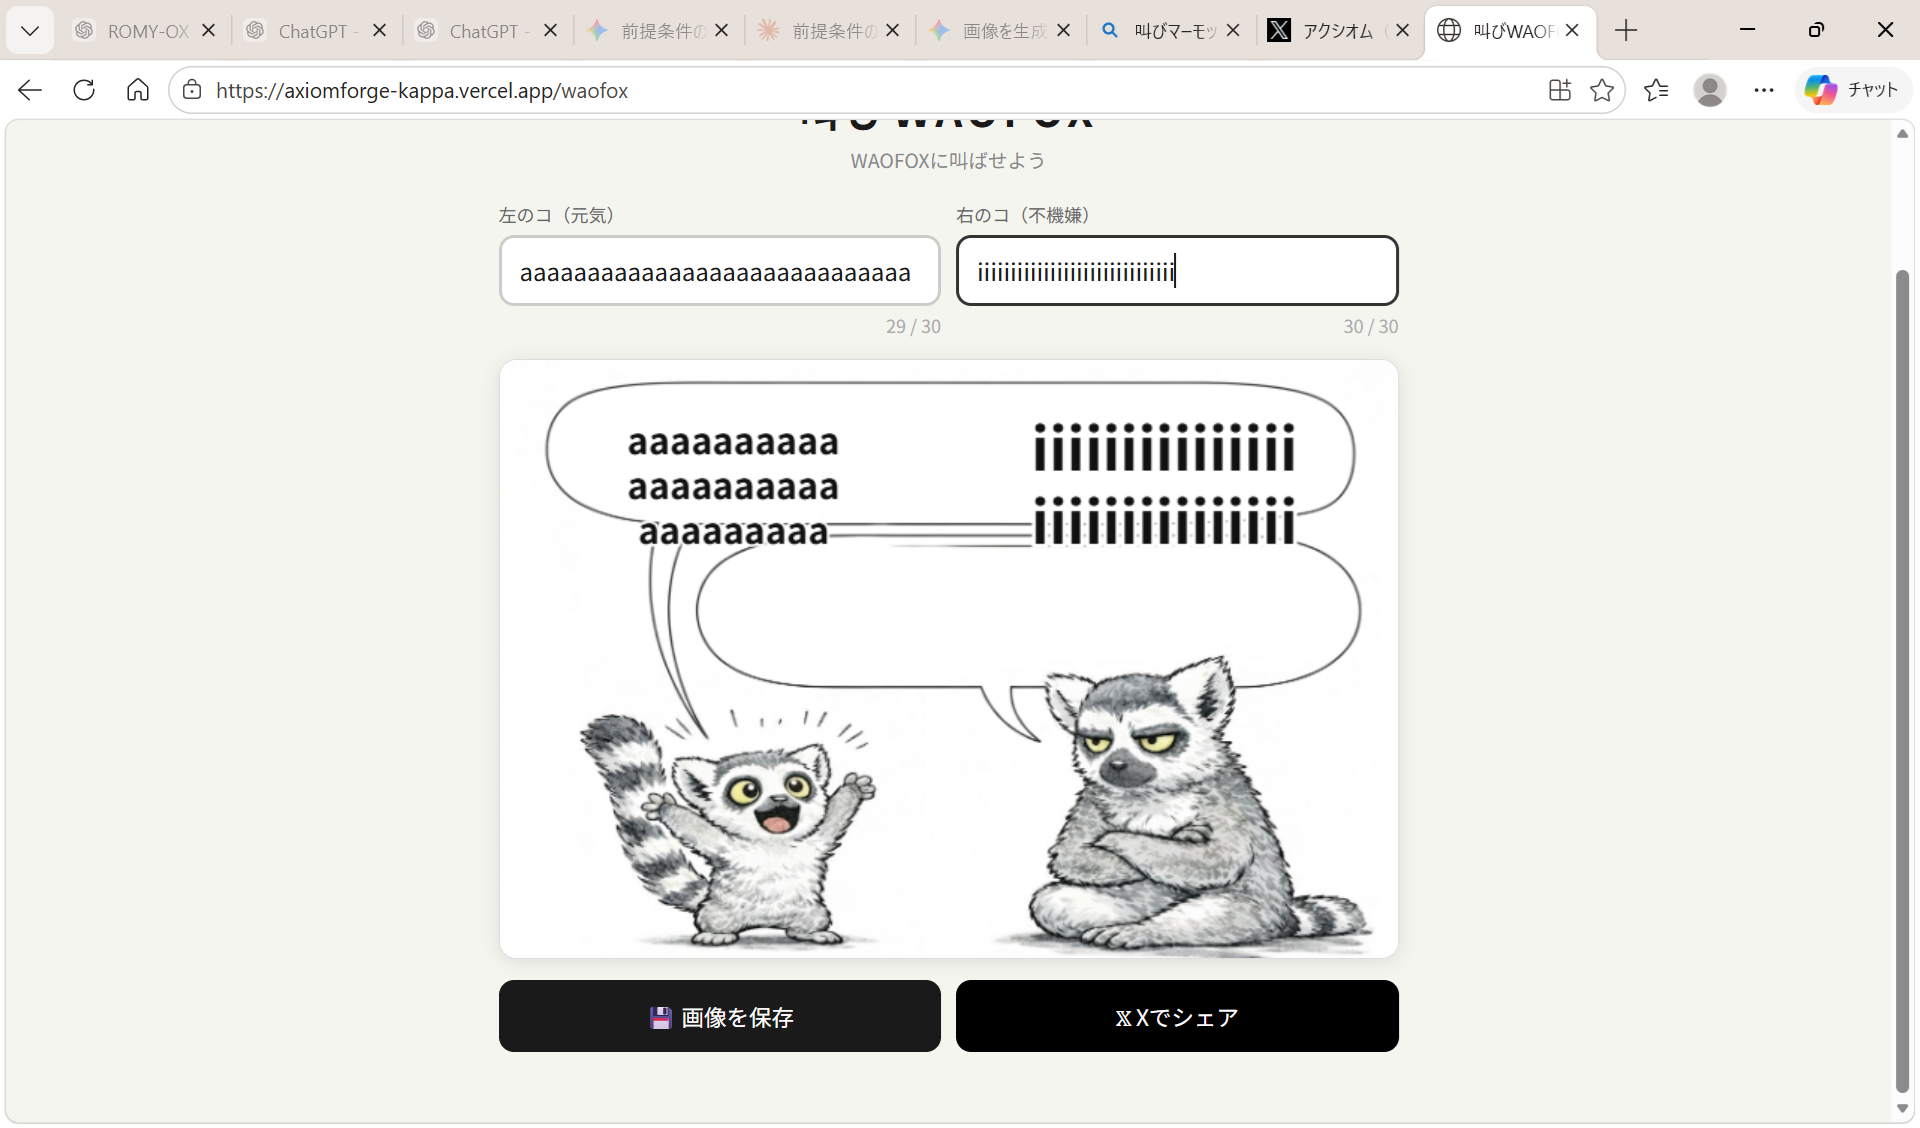
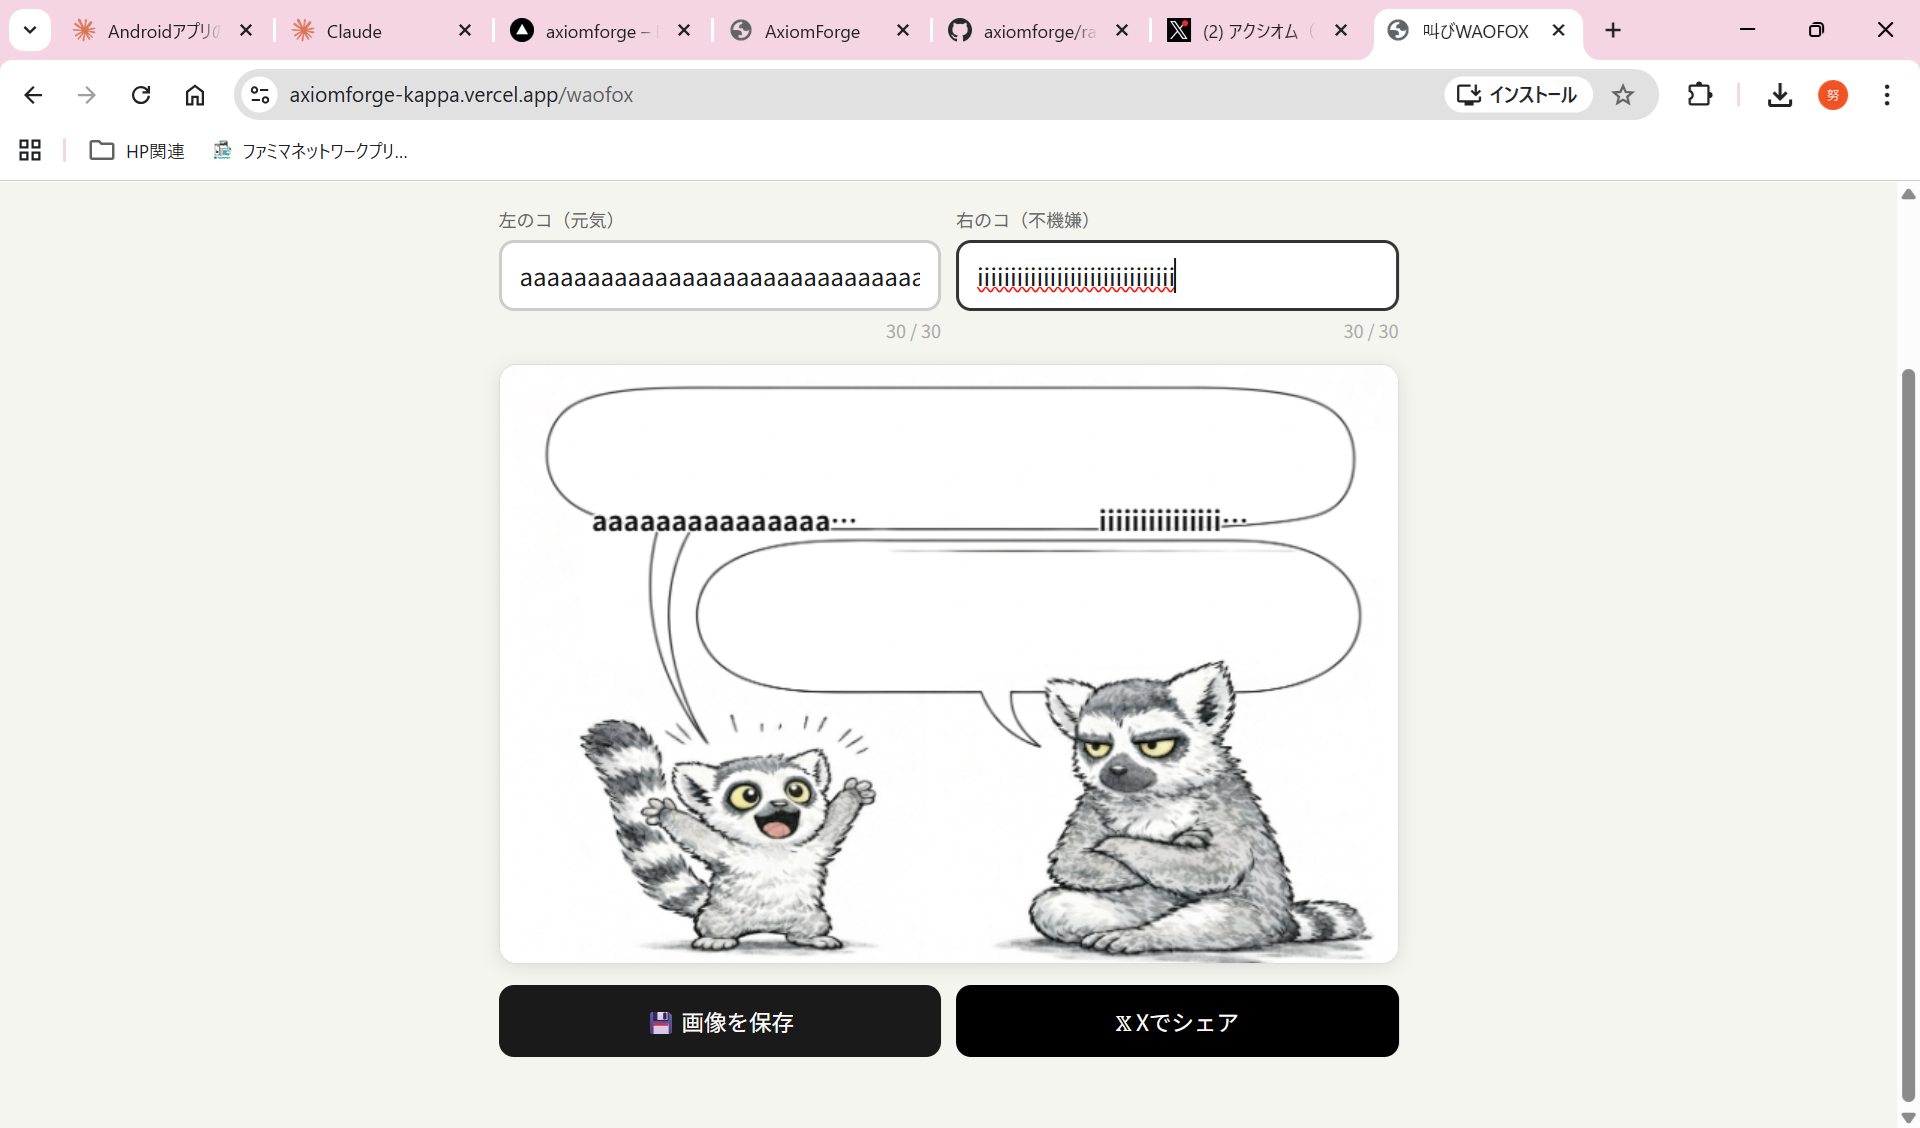
update

diff --git a/waofox/index.html b/waofox/index.html
@@ -109,9 +109,9 @@ function autoDetectBubbles() {
 
   // 長い連続ダーク区間を持つ行・列からバウンディングボックスを検出
   function detectBubble(ax0, ax1) {
-    const ay1 = Math.floor(AH * 0.52); // 上半分のみスキャン
-    const minHRun = Math.max(4, Math.floor((ax1 - ax0) * 0.12));
-    const minVRun = Math.max(3, Math.floor(ay1 * 0.10));
+    const ay1 = Math.floor(AH * 0.43); // キャラより上のみスキャン
+    const minHRun = Math.max(5, Math.floor((ax1 - ax0) * 0.35)); // 吹き出し縁の長い連続のみ拾う
+    const minVRun = Math.max(3, Math.floor(ay1 * 0.12));
 
     // 上下端：水平方向の長い連続
     let topY = ay1, bottomY = 0;
